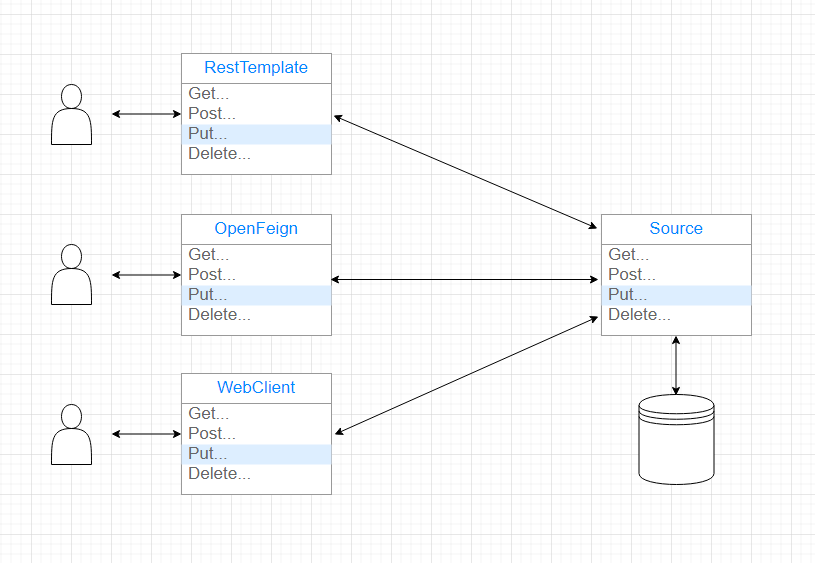
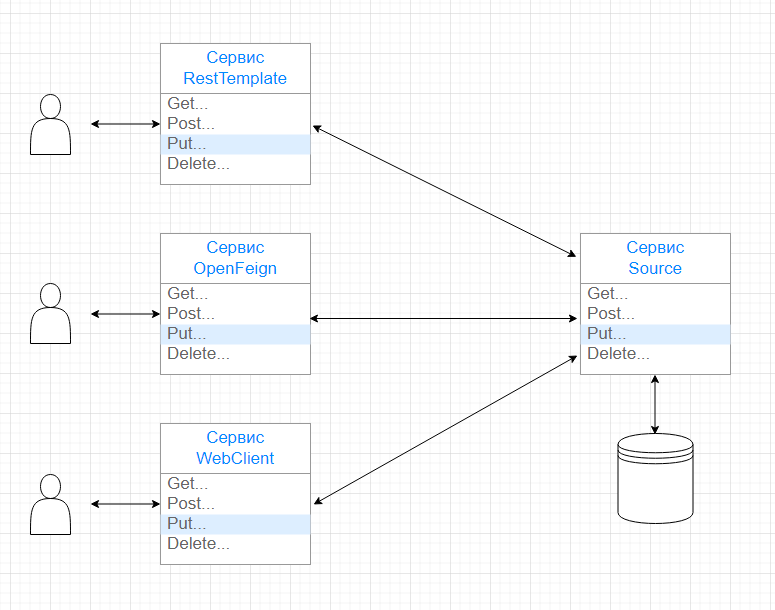
Добавил рисунок

diff --git a/README.md b/README.md
@@ -3,6 +3,15 @@
 Общая схема взаимодействия осуществляется следующим образом: 
 ![Image of Services](images/01.png)
 
-С базой данных работает только сервис  [Source](source), а остальные сервисы общаются с ним. 
+С базой данных работает только сервис [Source](source), а остальные сервисы общаются с ним.
+
 Сервисы названы по наименованию технологии, применяемой при организации взаимодействия.
+
+Сервис [RestTemplate](resttemplate) использует технологию [RestTemplate](https://spring.io/guides/gs/consuming-rest/)
+
+Сервис [OpenFeign](openfeign) использует технологию [OpenFeign](https://cloud.spring.io/spring-cloud-openfeign/reference/html/)
+
+Сервис [WebClient](webclient) использует технологию [WebClient](https://spring.io/guides/gs/reactive-rest-service/) в синхронном варианте.
+
+
 

diff --git a/openfeign/Readme.md b/openfeign/Readme.md
@@ -1,0 +1,5 @@
+# Сервис Source
+
+Этот сервис является частью проекта  [synchronous-clients](../)
+
+Он работает с базой данных

diff --git a/resttemplate/Readme.md b/resttemplate/Readme.md
@@ -1,0 +1,5 @@
+# Сервис Source
+
+Этот сервис является частью проекта  [synchronous-clients](../)
+
+Он работает с базой данных

diff --git a/webclient/Readme.md b/webclient/Readme.md
@@ -1,0 +1,5 @@
+# Сервис Source
+
+Этот сервис является частью проекта  [synchronous-clients](../)
+
+Он работает с базой данных
